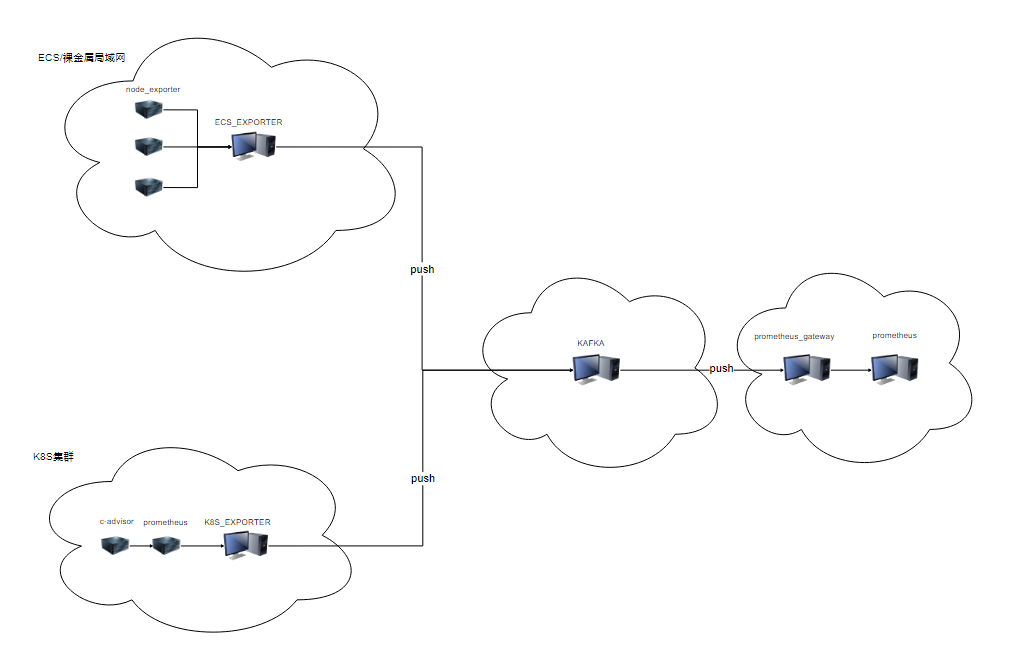
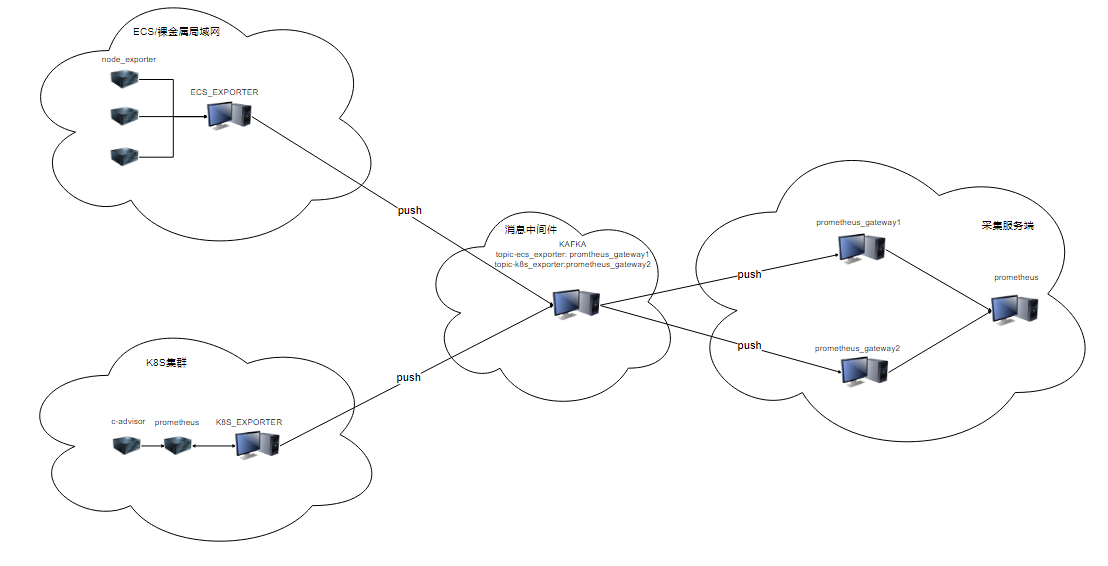
0930_modify solution

diff --git a/README.md b/README.md
@@ -16,7 +16,11 @@
 
 ## 3.解决方案
 
-		<img src="doc/solution.png" alt="解决方案"/>
+部署图：
+
+<img src="doc/solution.png" alt="解决方案"/>
+
+注意：不同集群的exporter订阅的kafka的topic是不同的，相应的prometheus_gateway也是不同的。
 
 ## 4.部署方案
 
